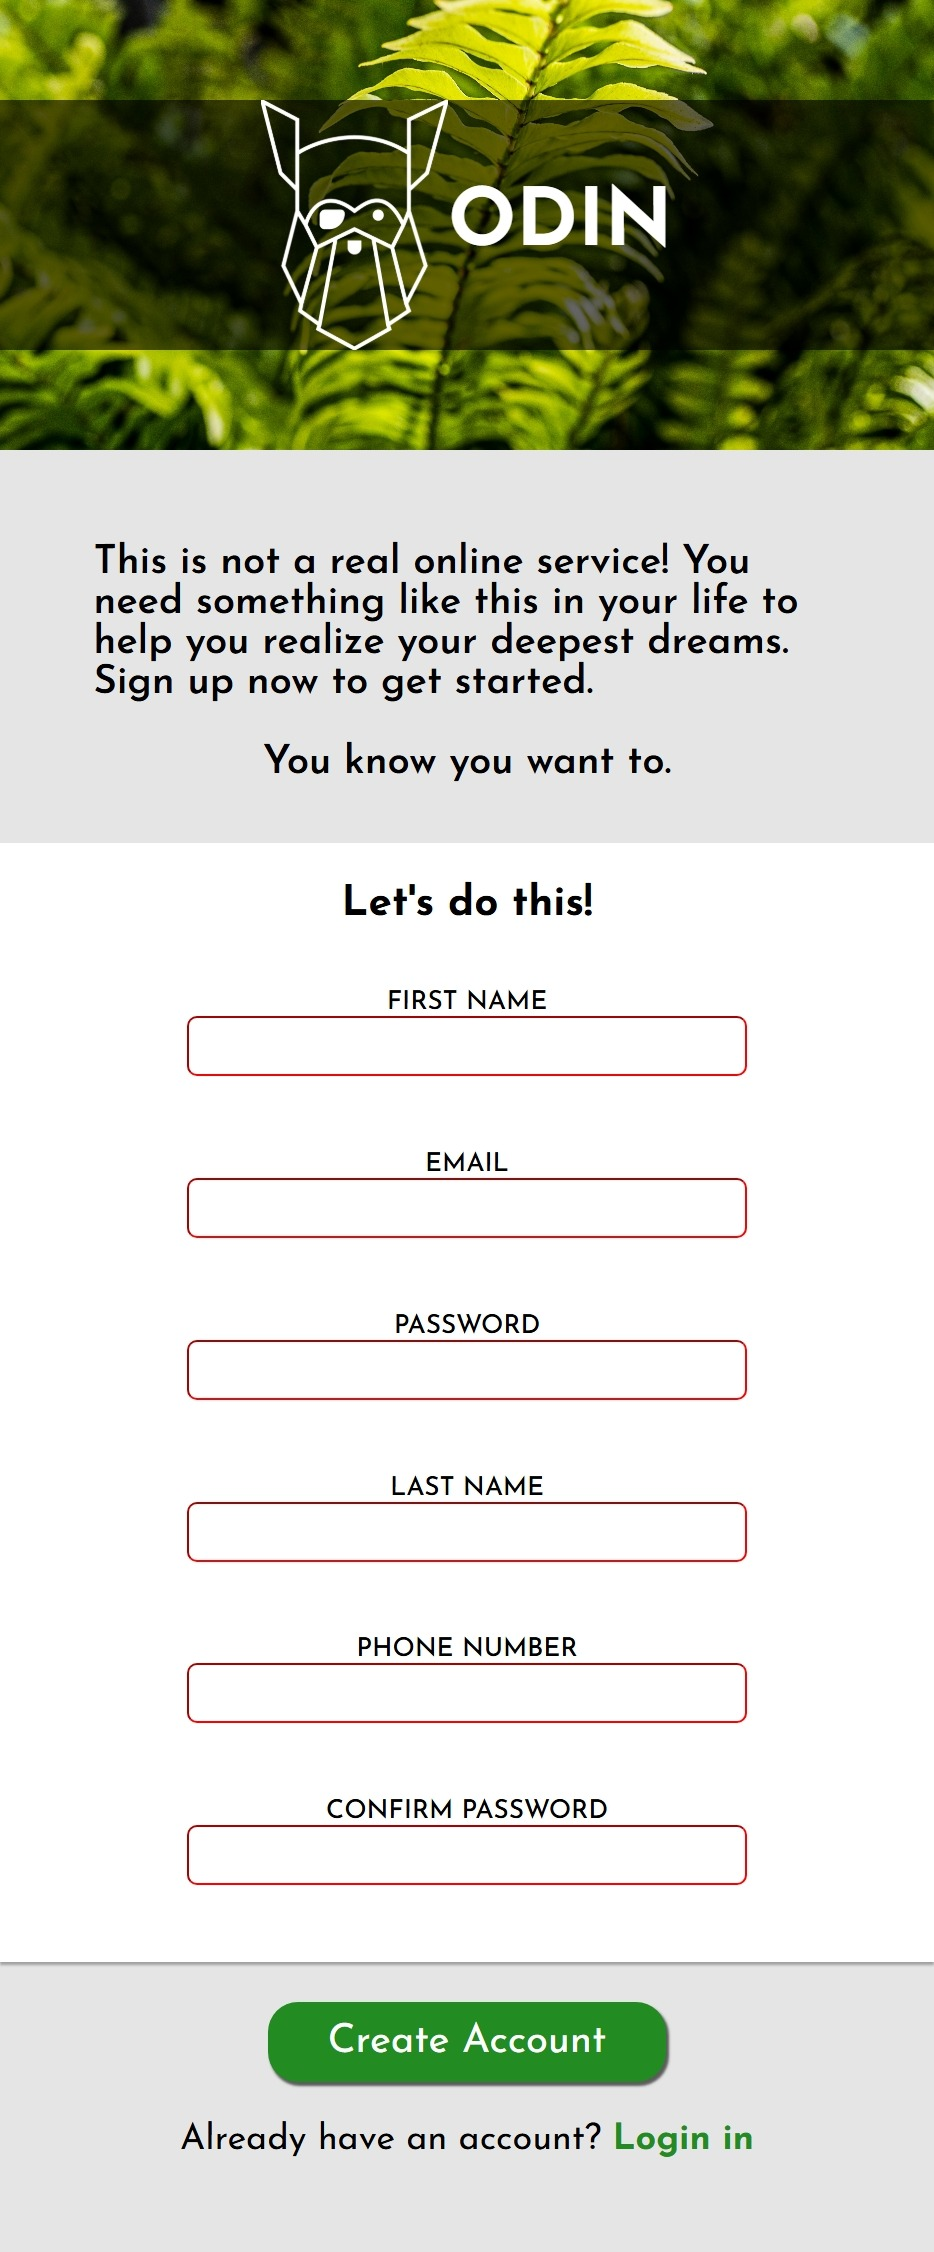
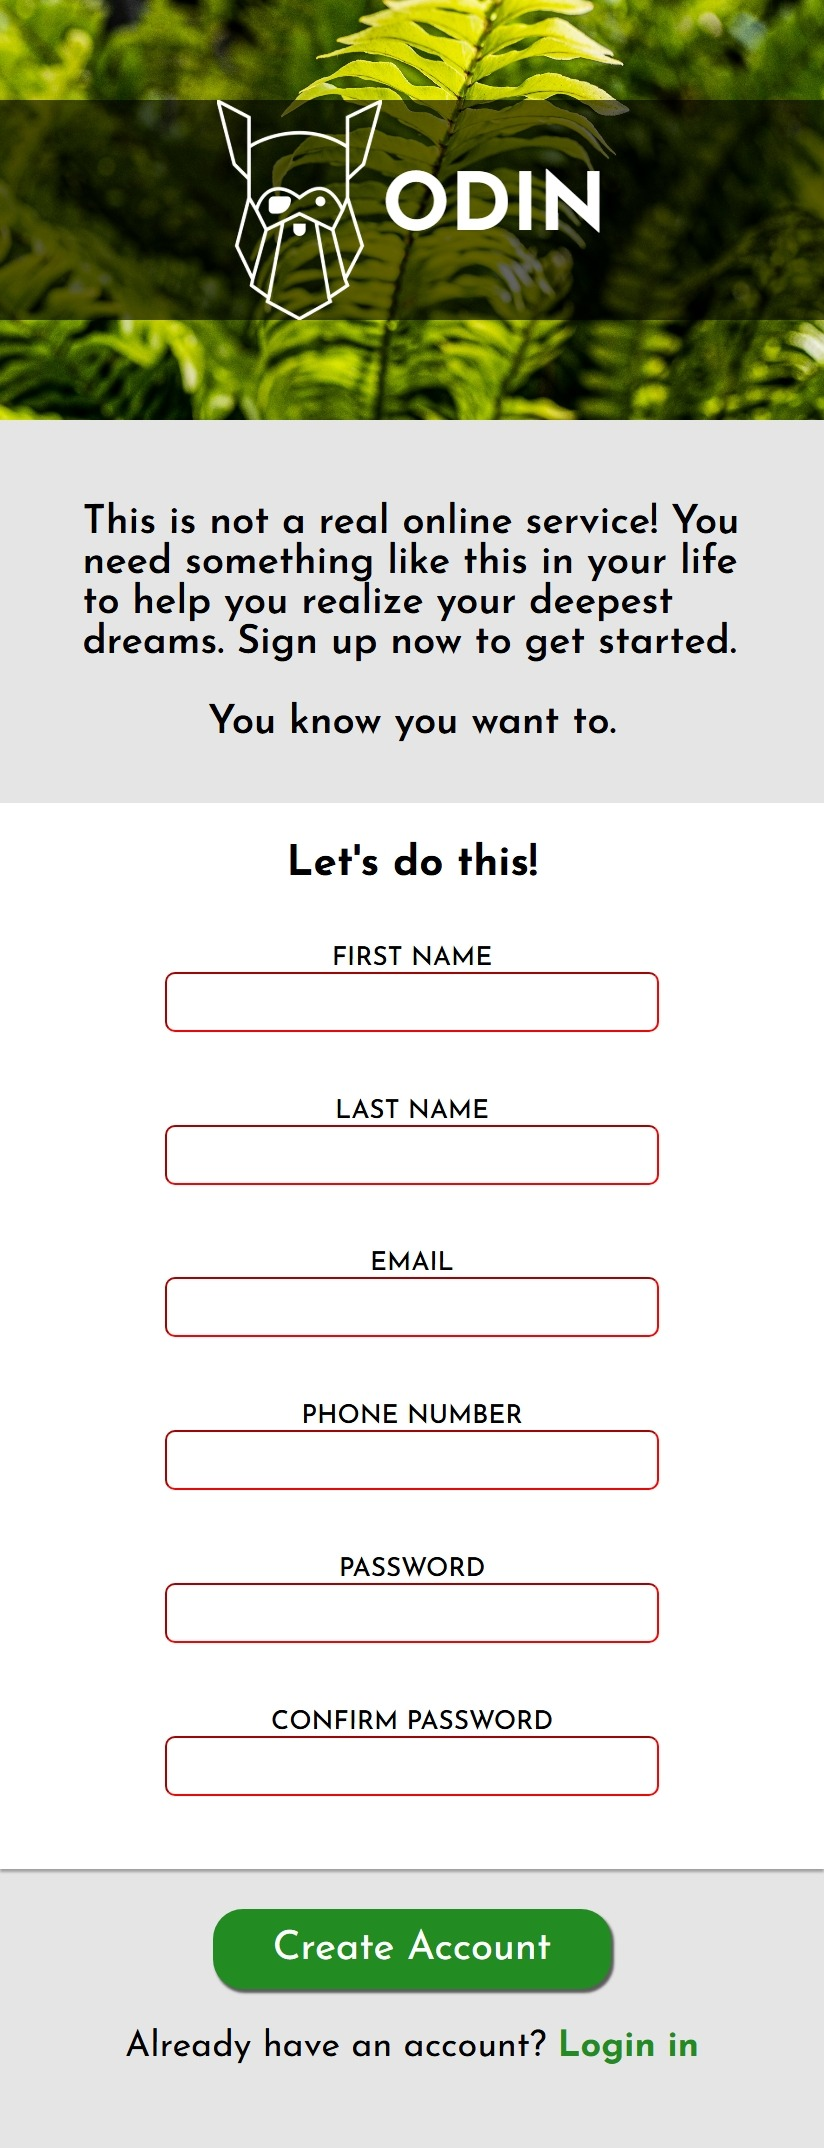
styles: ajusting the input order for better mobile UI/UX and some minor details hovering the button and link.

diff --git a/index.html b/index.html
@@ -37,22 +37,24 @@
                             <input type="text" name="first_name" id="first_name" required>
                         </div>
                         <div>
-                            <label for="email">EMAIL</label>
-                            <input type="email" name="email" id="email" required>
-                        </div>
-                        <div>
-                            <label for="password">PASSWORD</label>
-                            <input type="password" name="password" id="password" minlength="8" required>
+                            <label for="first_name">LAST NAME</label>
+                            <input type="text" name="last_name" id="last_name" required>
                         </div>
                     </div>
                     <div class="input_div">
                         <div>
-                            <label for="first_name">LAST NAME</label>
-                            <input type="text" name="last_name" id="last_name" required>
+                            <label for="email">EMAIL</label>
+                            <input type="email" name="email" id="email" required>
                         </div>
                         <div>
                             <label for="phone_number">PHONE NUMBER</label>
                             <input type="number" name="phone_number" id="phone_number" required>
+                        </div>
+                    </div>
+                    <div class="input_div">
+                        <div>
+                            <label for="password">PASSWORD</label>
+                            <input type="password" name="password" id="password" minlength="8" required>
                         </div>
                         <div>
                             <label for="con_password">CONFIRM PASSWORD</label>

diff --git a/styles/styles.css b/styles/styles.css
@@ -83,7 +83,40 @@ body {
 
 #second_div2 > form {
     display: flex;
+    flex-direction: column;
+}
+
+.input_div {
+    display: flex;
     flex-direction: row;
+    justify-self: flex-start;
+    font-size: .8rem;
+    font-weight: 500;
+    height: auto;
+    width: 60%;
+   
+}
+
+.input_div > div {
+    display: flex;
+    flex-direction: column;
+    margin-top: 4%;
+    margin-bottom: 4%;
+    margin-right: 20%;
+
+}
+
+.input_div > div > input {
+    padding: .6em;
+    padding-right: 4rem;
+    border-radius: .5rem;
+}
+
+/* focus didn't work */
+.input_div > div > input:focus {
+    border: 5px;
+    border-color: blue;
+    box-shadow: 5px 5px 10px 0.4;
 }
 
 #reduction {
@@ -113,36 +146,10 @@ body {
     border-radius: 1.5rem;
 }
 
-.input_div {
-    display: flex;
-    flex-direction: column;
-    justify-self: flex-start;
-    font-size: .8rem;
-    font-weight: 500;
-    height: auto;
-    width: 40%;
-}
-
-.input_div > div {
-    display: flex;
-    flex-direction: column;
-    margin-top: 4%;
-    margin-bottom: 4%;
-    margin-right: 20%;
-
-}
-
-.input_div > div > input {
-    padding: .6em;
-    border-radius: .5rem;
-}
-
-/* focus didn't work */
-.input_div > div > input:focus {
-    border: 5px;
-    border-color: blue;
-    box-shadow: 5px 5px 10px 0.4;
-}
+#second_div3 > button:hover {
+    background-color: green;
+    transition: ease-in-out .3s;
+}   
 
 small {
     font-size: 1rem;
@@ -152,4 +159,9 @@ small {
 a {
     font-weight: 700;
     color: forestgreen;
+}
+
+a:hover {
+    color: yellowgreen;
+    transition: ease-in-out .3s;
 }

diff --git a/styles/mobile.css b/styles/mobile.css
@@ -37,6 +37,7 @@
 
     .input_div {
         display: flex;
+        flex-direction: column;
         justify-content: center;
         align-items: center;
         width: 100%;
@@ -49,7 +50,7 @@
         width: 100%;
         margin-right: 0;
         font-size: 1.3rem;
-    }
+    } 
 
     .input_div > div > input {
         width: 60%;
